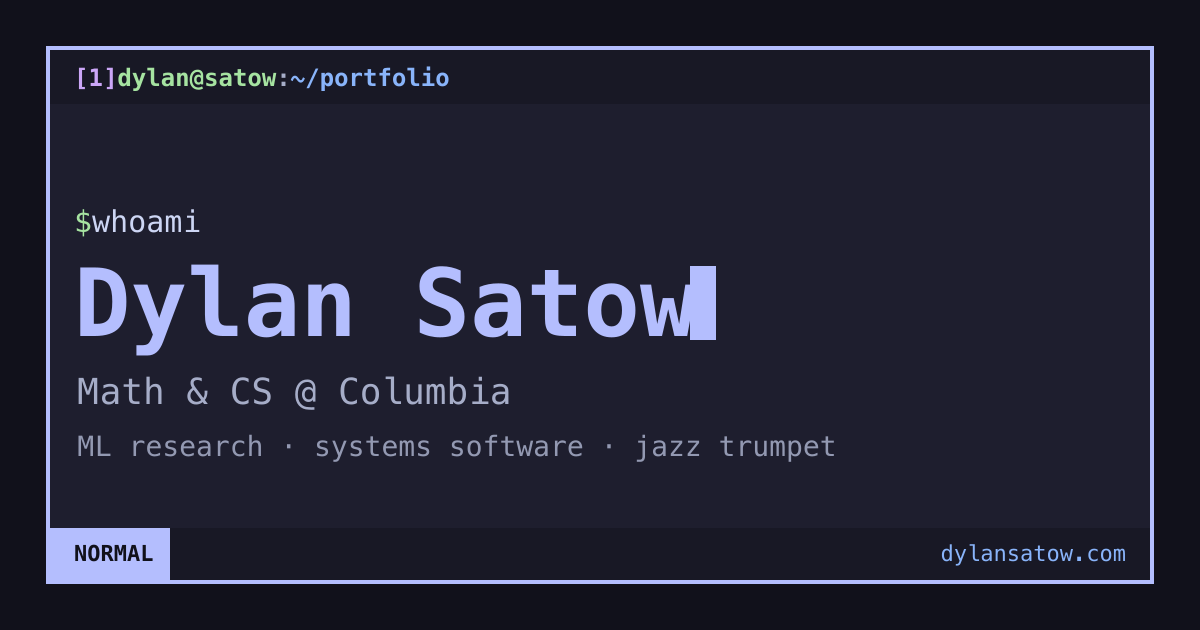
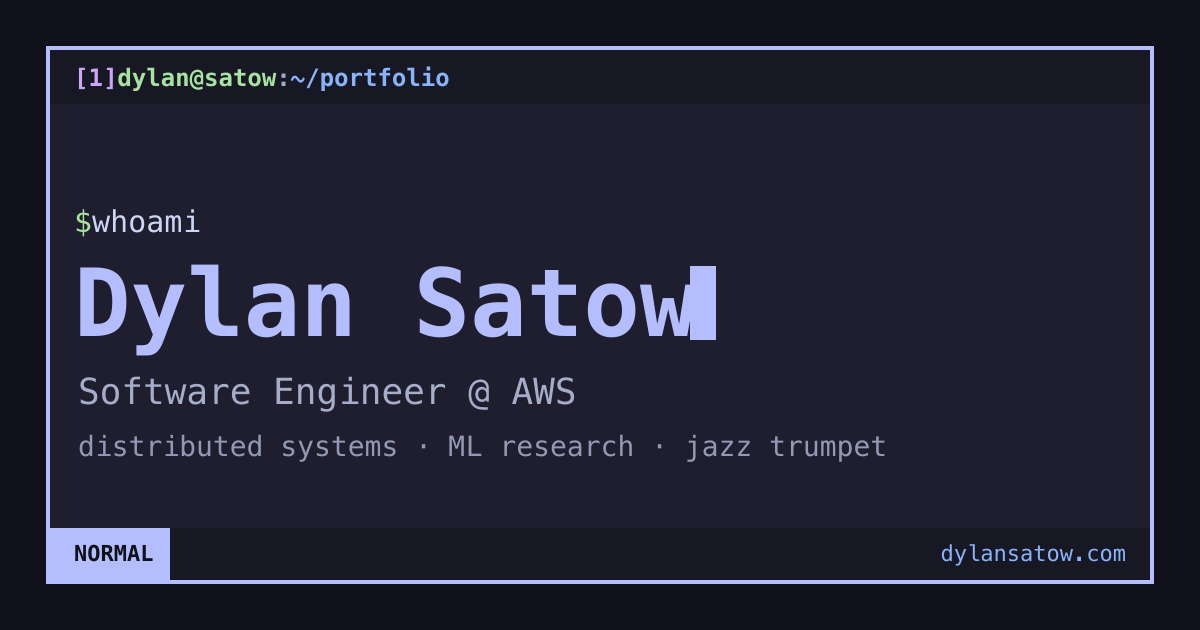
Update content: now a software engineer at AWS (MSK/Apache Kafka)
- Reframe bio software-engineer-first with ML background layered on top
- Add current full-time AWS MSK (Apache Kafka) role; graduated Columbia
- Update role, home/experience SEO, JSON-LD (jobTitle + worksFor), OG card

Changed region(s): [[0.0617, 0.573, 0.4933, 0.6635], [0.0617, 0.6937, 0.74, 0.7238]]

diff --git a/src/lib/data.ts b/src/lib/data.ts
@@ -26,19 +26,26 @@ export interface BlogPost {
 export const profile = {
 	name: 'Dylan Satow',
 	handle: 'dylansatow',
-	role: 'Math & CS @ Columbia',
+	role: 'Software Engineer @ AWS',
 	host: 'dylan@satow',
 	email: 'dylansatow531@gmail.com'
 };
 
 export const about = {
-	bio: `I'm Dylan Satow, a 4th-year at Columbia University studying Math & CS. I'm passionate about ML research — lately non-Euclidean representation learning and mechanistic interpretability — though I love traditional systems software just as much. I've recently gone all-in on Nix/NixOS across my Mac and PC, and I keep drifting toward lower-level projects and courses.`,
+	bio: `I'm Dylan Satow, a software engineer at AWS working on Amazon MSK — managed streaming for Apache Kafka — where I spend my time deep in distributed systems. I graduated from Columbia with a degree in Math & CS. I came up through ML research (non-Euclidean representation learning and mechanistic interpretability) and still care about it, but these days I'm a software/systems engineer first, with that ML background layered on top. I've gone all-in on Nix/NixOS across my Mac and PC, and I keep gravitating toward lower-level projects.`,
 	siteNote: `This site is built with SvelteKit and Tailwind CSS in a Catppuccin Mocha theme, designed to feel like a focused window in a tiling window manager. I chose Svelte to skip the VDOM overhead while keeping boilerplate-free reactivity, and every page is prerendered to static HTML for instant loads.`,
 	vimNote: `It's keyboard-driven if you want it to be: h/l switch sections, j/k move, Enter opens, ? shows help. Don't know vim? Just scroll, tap, and click — everything works the normal way too.`
 };
 
 // --- experience -----------------------------------------------------------
 export const jobs: Entry[] = [
+	{
+		role: 'Software Engineer',
+		company: 'Amazon Web Services · MSK (Apache Kafka)',
+		period: '2026 – Present',
+		description:
+			"Engineering on Amazon MSK, AWS's fully-managed Apache Kafka service — distributed streaming infrastructure run at scale."
+	},
 	{
 		role: 'SDE Intern',
 		company: 'Amazon Web Services · MSK-Connect',

diff --git a/src/routes/+page.svelte b/src/routes/+page.svelte
@@ -8,9 +8,10 @@
 		'@type': 'Person',
 		name: 'Dylan Satow',
 		url: 'https://dylansatow.com',
-		jobTitle: 'Software Engineer / ML Researcher',
+		jobTitle: 'Software Engineer',
+		worksFor: { '@type': 'Organization', name: 'Amazon Web Services' },
 		alumniOf: { '@type': 'CollegeOrUniversity', name: 'Columbia University' },
-		knowsAbout: ['Machine Learning', 'Representation Learning', 'Systems Programming', 'CUDA'],
+		knowsAbout: ['Distributed Systems', 'Apache Kafka', 'Software Engineering', 'Machine Learning'],
 		sameAs: [
 			'https://github.com/DylanSatow',
 			'https://linkedin.com/in/dylan-satow',
@@ -20,8 +21,8 @@
 </script>
 
 <Seo
-	title="Dylan Satow — Math & CS @ Columbia"
-	description="Dylan Satow — Math & CS at Columbia. ML research (non-Euclidean representation learning, mechanistic interpretability), systems software, and jazz trumpet."
+	title="Dylan Satow — Software Engineer @ AWS"
+	description="Dylan Satow — software engineer at AWS working on Amazon MSK (Apache Kafka) and distributed systems, with a background in ML research. Columbia Math & CS grad."
 />
 
 <svelte:head>

diff --git a/src/routes/experience/+page.svelte b/src/routes/experience/+page.svelte
@@ -7,7 +7,7 @@
 
 <Seo
 	title="Experience — Dylan Satow"
-	description="Dylan Satow's experience: SDE intern at AWS, data science at Pharmavite, and ML research across four Columbia labs."
+	description="Dylan Satow's experience: software engineer at AWS on Amazon MSK (Apache Kafka), prior internships, and ML research across four Columbia labs."
 />
 
 <div class="space-y-10">
